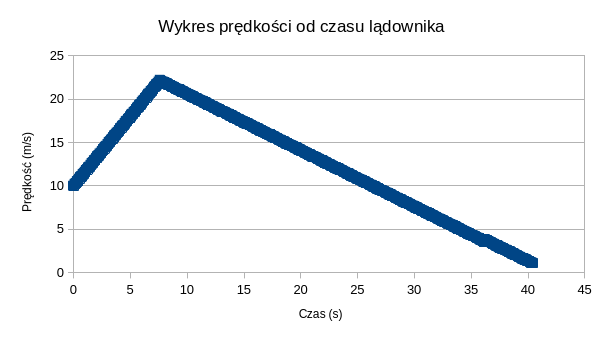
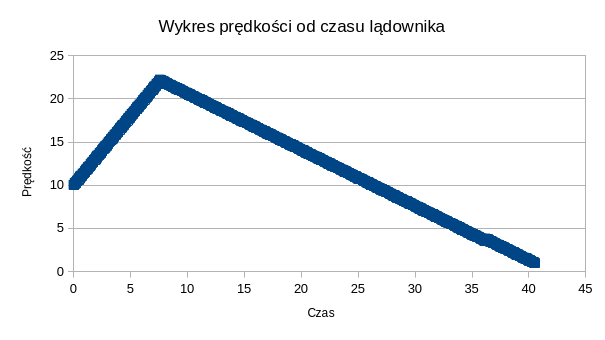
Add the last tick frame to the graphs and csv file

diff --git a/lunar.c b/lunar.c
@@ -51,6 +51,7 @@ int main(int argc, char *argv[]) {
 
     current_height = current_height > 0 ? current_height : 0;
     printf("H: %.1fm, V=%.15fm/s, %s\n", current_height, current_velocity, engine_status ? "ON" : "OFF");
+    fprintf(fpt, "%.1f,%.1f,%.15f,%d\n", current_time, current_height, current_velocity, engine_status ? 1 : 0);
     // dla danych wyjsciowych zatrzymuje sie na jakies predkosci absurdalnie blisko 1 wiec zeby zobaczyc ze jest to faktycznie ponizej 1 uzylem .15f (tylko 15 miejsc ma znaczenie dla double) lol
     printf(current_velocity >= 1 ? "Crashed...\n" : "Survived!\n");
 
